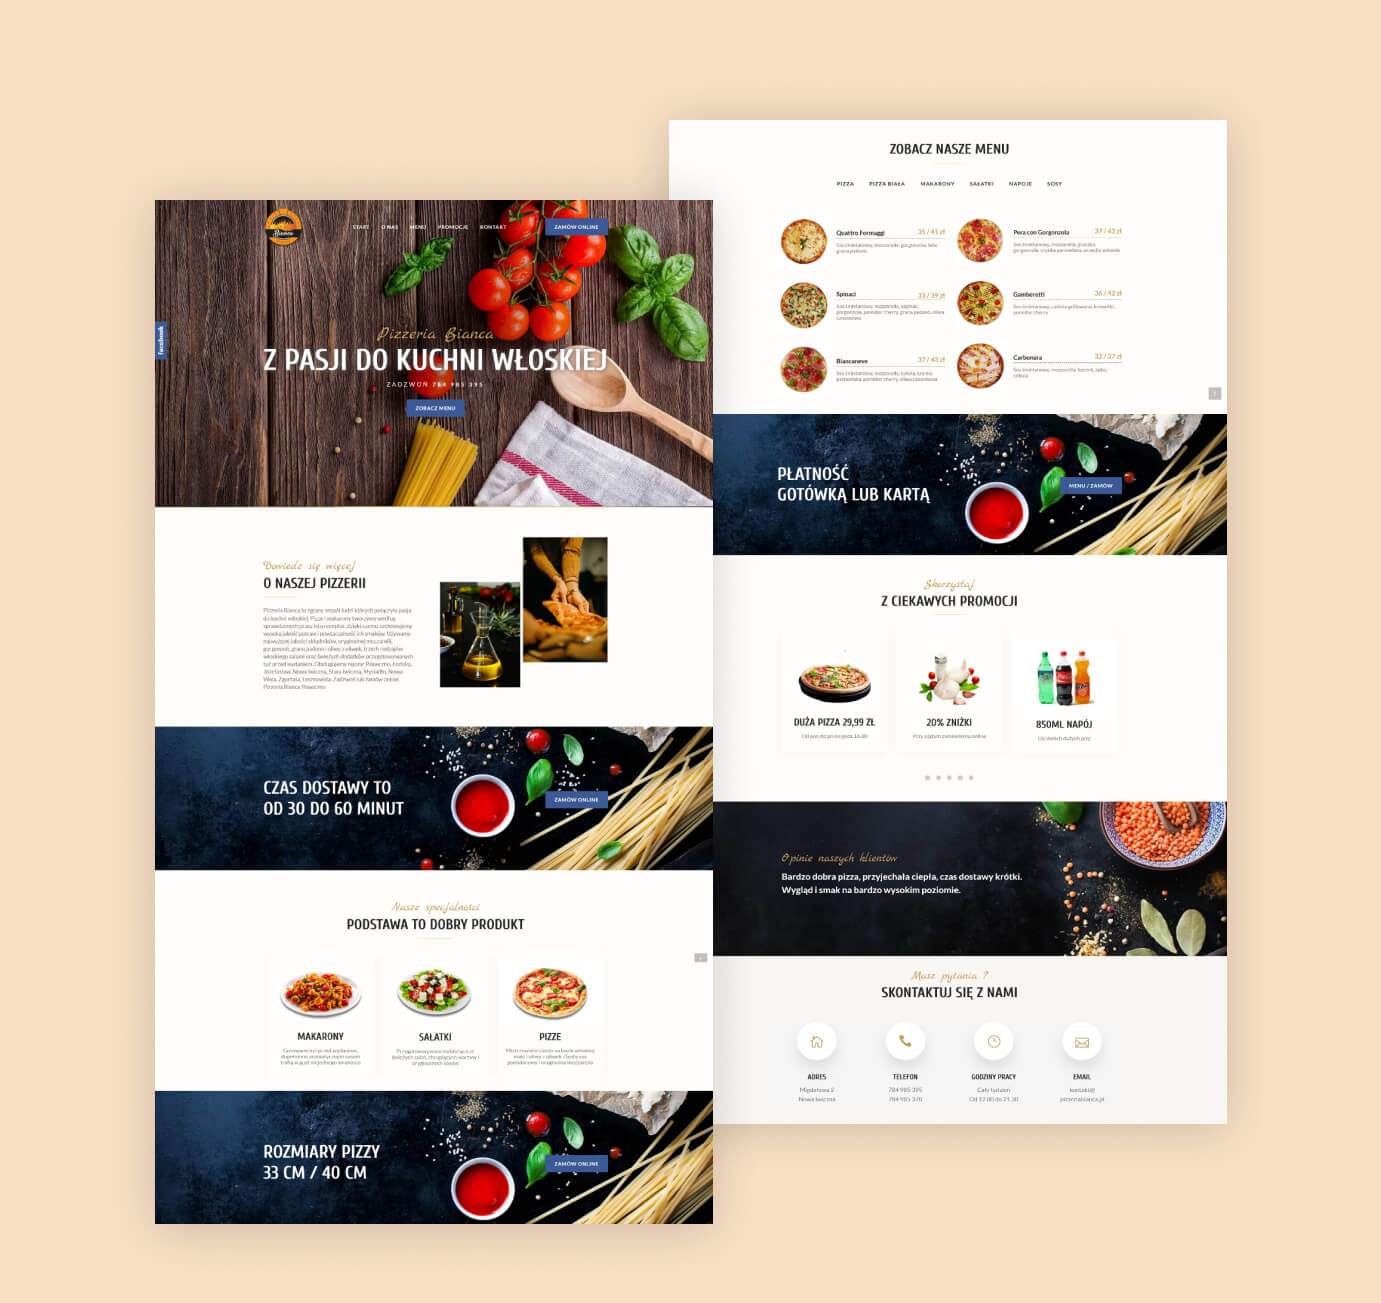
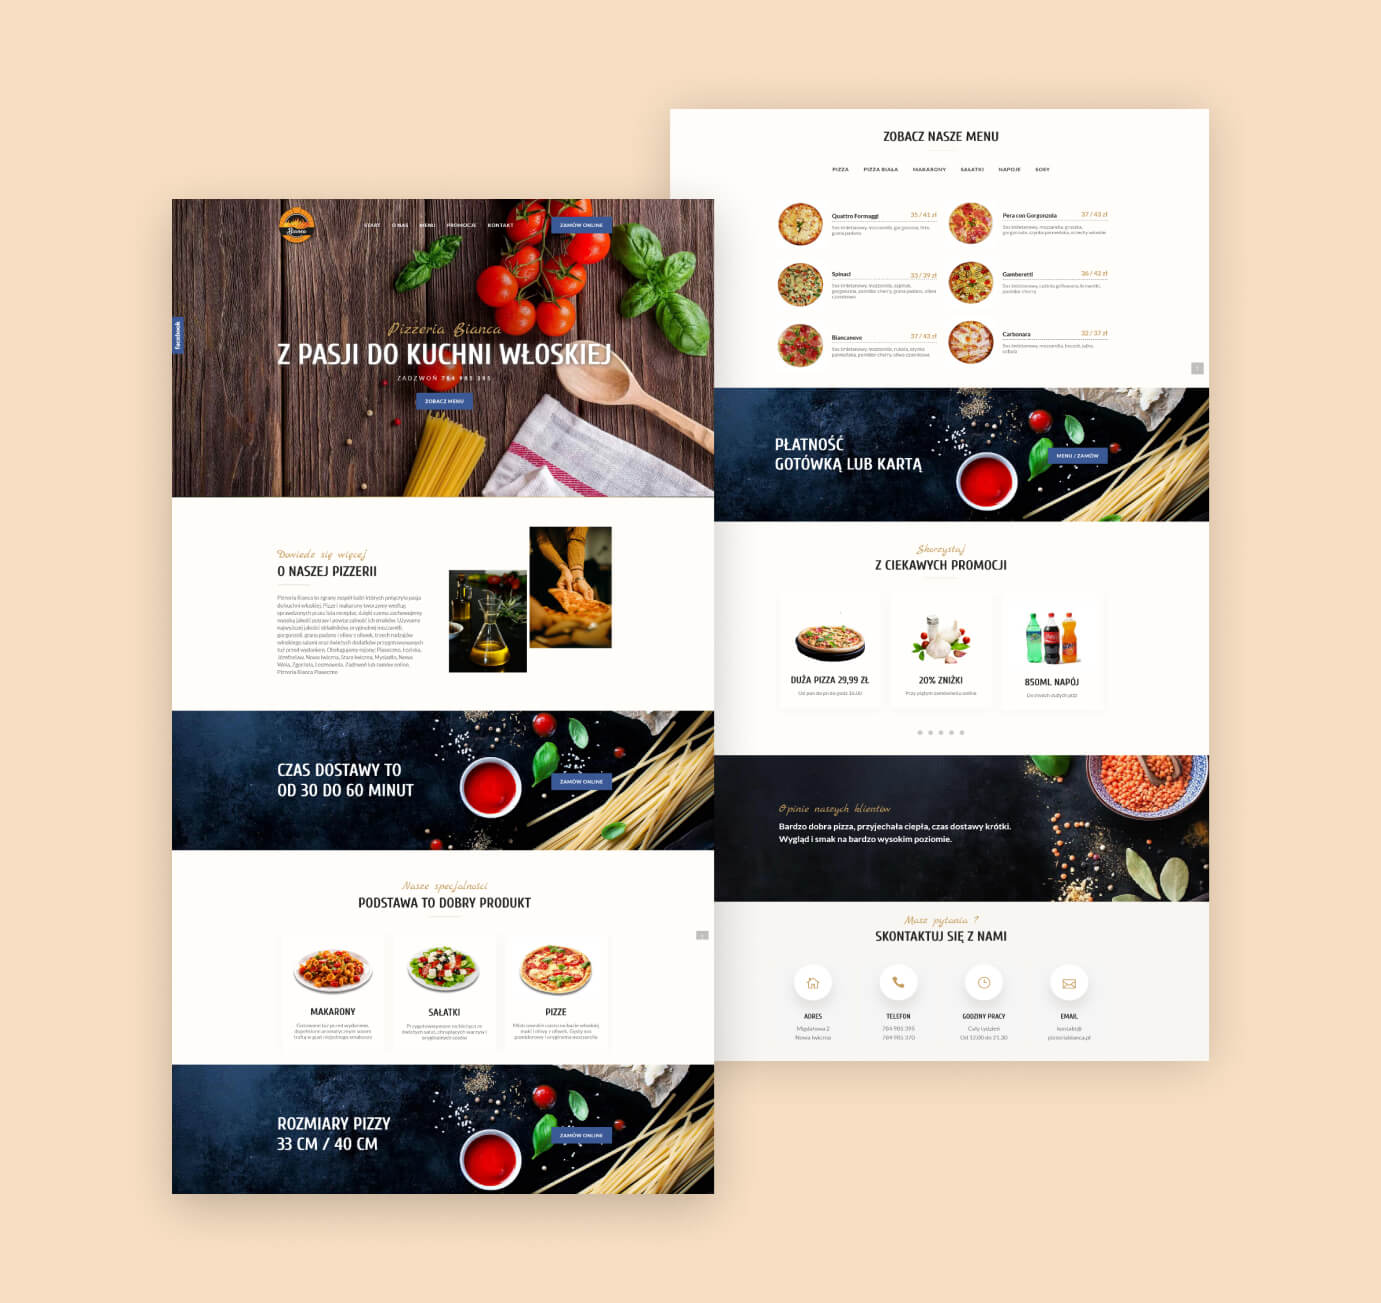
Change mockups

Changed region(s): [[0.0934, 0.0614, 0.903, 0.9517]]

diff --git a/src/assets/sass/base/colors.scss b/src/assets/sass/base/colors.scss
@@ -6,7 +6,7 @@
     --color-dark-2: #1d242b;
     --color-light-1: #f8f8f8;
     --color-light-2: #f4f3ec;
-    --color-heading: #202834;
+    --color-heading: #14181e;
     --color-text: #657885;
     --color-border: #2f3d47;
 }
@@ -28,7 +28,7 @@
     --color-dark-2: #1d242b;
     --color-light-1: #f8f8f8;
     --color-light-2: #f4f3ec;
-    --color-heading: #202834;
+    --color-heading: #14181e;
     --color-text: #657885;
     --color-border: #2f3d47;
   }
